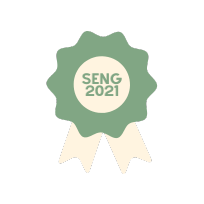
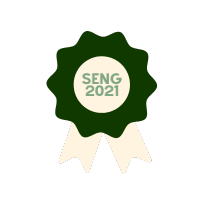
edited achievement colours

Changed region(s): [[0.2059, 0.1471, 0.7941, 0.6765]]

diff --git a/src/App.css b/src/App.css
@@ -91,7 +91,7 @@ nav.navbar {
   transition:  0.32s ease-in-out;
 }
 nav.navbar.scrolled {
-  padding: 0px 0;
+  padding: 10px 0 10px 0;
   background-color: #1A3A3A;
 }
 nav.navbar a.navbar-brand {
@@ -306,7 +306,7 @@ nav.navbar .navbar-toggler[aria-expanded="true"] .navbar-toggler-icon {
   position: relative;
 }
 .skill-bx {
-  background: #1A3A3A;
+  background: #81A684;
   border-radius: 64px;
   text-align: center;
   padding: 60px 50px;
